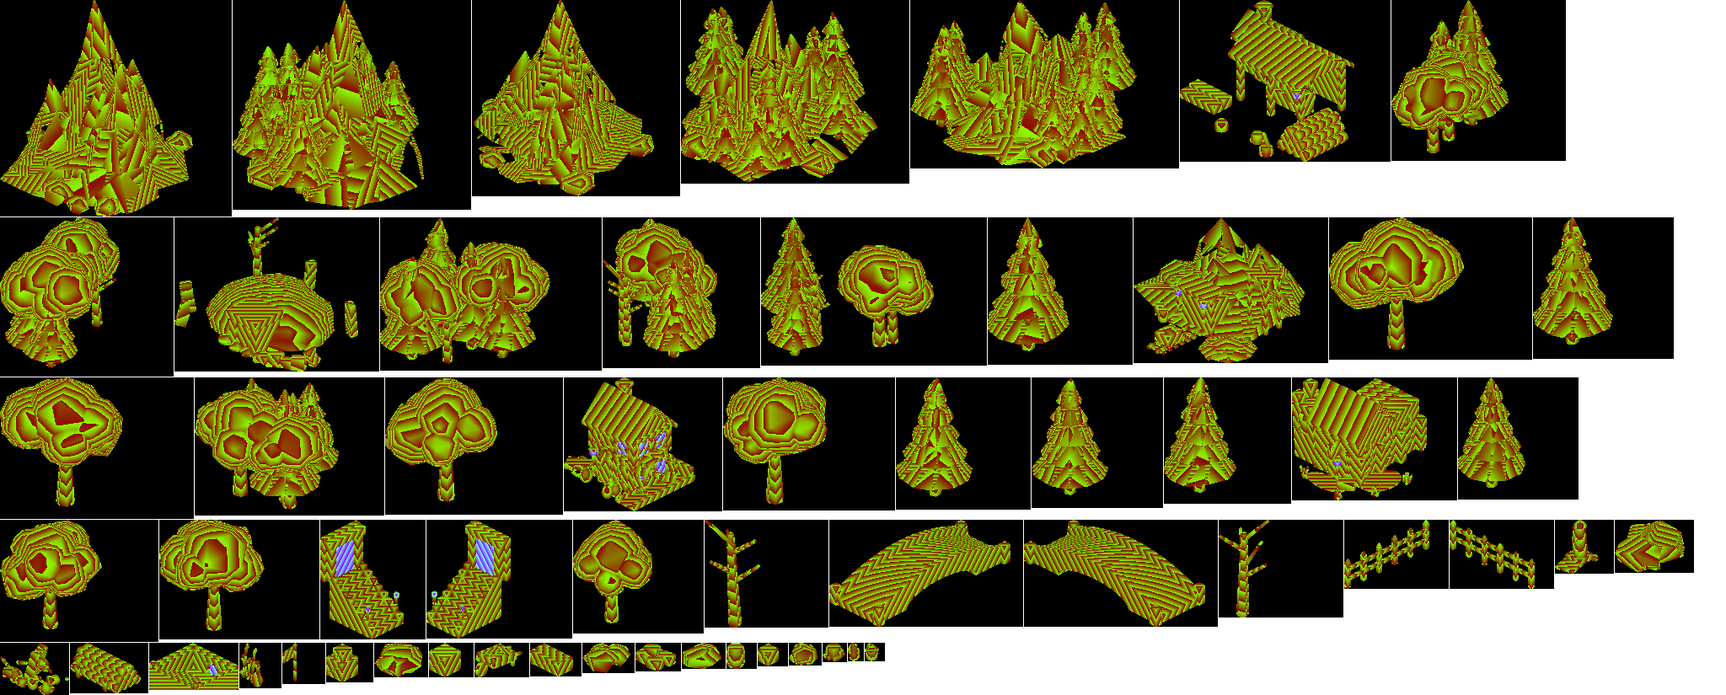
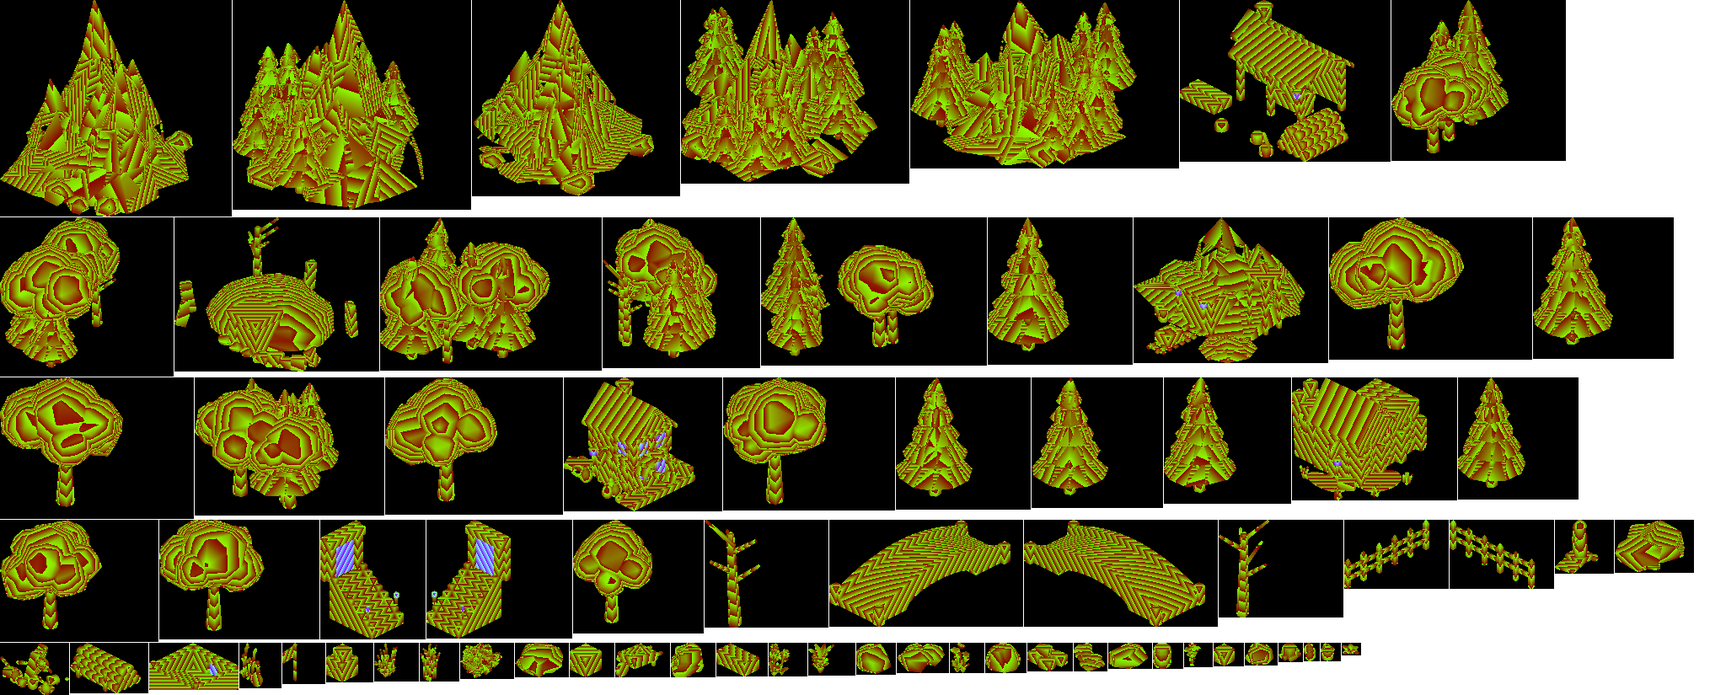
Undergrowth and rocks from the Stylized Nature MegaKit (the proposal's recommendations)
Implements docs/nature-pack-proposal.md as decided: the kit's undergrowth and rocks, our trees kept,
no red maples.

- The bake (tools/actor-lab/env.json):
  - 9 undergrowth sprites (ug_*): a flowering bush, a fern, a plant, two flower groups (a third
    smaller than the prototype's), two grasses (graded lighter), clover and a shelf fungus;
  - the kit's 3 rocks (rock_F/G/H);
  - all loaded from models/nature/ through the lab's cut-out support, and graded to the Vale's trees
    (the kit is about 3× as saturated);
  - bake-env.cjs stops with a clear message if the pack isn't unzipped there.
- The scatter (src/sim/outdoor.js):
  - The kit's rocks replace ours in ROCKS. Ours stay as the barrows' stones.
  - undergrowth() dresses the town (the palisade's verges, the stream's banks, the gardens, flower
    patches, never the square) and the overland (forest edges, meadow patches, clear of every site
    and its way in).
  - It gathers at the front of trees' feet; the shelf fungus grows only there.
  - It's placed last on its own stream, so no tree, rock or house moves. Low plants are walked
    through; the bush and rocks are solid. Trig goes through detmath.
- The minimap leaves the undergrowth off.
- Credits (CC0, Quaternius), the actor-lab README ("The nature pack": where to unzip it) and the
  AGENTS bake line.

Measured:
- 77 undergrowth pieces in the town, 281 on the overland.
[…]

Changed region(s): [[0.2188, 0.9091, 0.8125, 1.0]]

diff --git a/src/sim/envfoot.js b/src/sim/envfoot.js
@@ -1,4 +1,4 @@
 // envfoot.js — GENERATED by tools/actor-lab/bake-env.cjs. Do not edit.
 // Ground footprint of each baked environment sprite, in tiles relative to its
 // origin: [x0, y0, x1, y1]. Used for collision and placement.
-export const ENV_FOOT = {"pine_1":[-4.13,-4.18,4.39,4.34],"pine_2":[-4.81,-4.8,5.12,5],"pine_3":[-4.98,-5.01,5,4.96],"pine_4":[-5.13,-5.38,5.48,5.19],"pine_5":[-4.8,-4.87,4.86,4.58],"pine_6":[-4.76,-4.68,4.81,4.84],"oak_1":[-6.76,-5.9,5.88,5.84],"oak_2":[-5.8,-4.63,4.64,4.88],"oak_3":[-5.69,-5.27,5.8,5.97],"oak_4":[-6.23,-6.82,5.95,6.39],"autumn_1":[-6.59,-6.17,5.5,4.97],"autumn_2":[-4.61,-5.31,5.15,5.55],"autumn_3":[-4.46,-4.55,4.68,4.38],"dead_1":[-2.24,-2.81,2.66,2.62],"dead_2":[-2.56,-1.87,2.98,3.05],"grove_1":[-7.68,-11.37,3.67,5.35],"grove_2":[-9.37,-7.23,8.7,9.95],"grove_3":[-8,-5.74,9.25,8.11],"grove_4":[-8.72,-9.33,7.98,8.18],"grove_5":[-7.14,-9.42,6.44,8.99],"grove_6":[-8.02,-9.64,7.46,6.95],"bridge_0":[-3.6,-9.7,3.6,9.7],"bridge_90":[-9.7,-3.6,9.7,3.6],"rock_A":[-2.18,-2.03,2.19,2.41],"rock_B":[-2.03,-2.12,2.06,1.97],"rock_C":[-3.06,-3.35,3.32,3.55],"rock_D":[-2.7,-3.56,2.22,2.22],"rock_E":[-3.72,-3.84,4.19,6.22],"mountain_A_grass_trees":[-12.58,-12.79,11.34,10.47],"mountain_B_grass_trees":[-12.7,-13.02,12.8,11.86],"mountain_C_grass_trees":[-14.56,-13.66,14.26,14.25],"mountain_A":[-11.3,-11.74,11.05,10.38],"mountain_B":[-12.23,-11.71,11.72,13.45],"ruin":[-9.37,-9.66,9.14,6.89],"mine_0":[-11.55,-10.95,8.49,11.1],"lumbermill_90":[-10.3,-7.1,9.4,8.9],"barrel":[-0.89,-0.94,0.89,0.94],"crate_A_big":[-1.12,-1.12,1.12,1.19],"crate_A_small":[-0.72,-0.72,0.72,0.79],"crate_B_big":[-1.12,-1.12,1.12,1.19],"crate_long_A":[-2.02,-1.02,2.02,1.09],"sack":[-0.62,-0.49,1.25,1.36],"wheelbarrow":[-1.32,-2.69,1.32,3.23],"weaponrack":[-1.2,-0.19,2.1,0.81],"bucket_water":[-0.65,-0.65,0.65,0.65],"resource_lumber":[-3.33,-1.78,3.33,2.15],"resource_stone":[-1.7,-1.97,1.75,0.83],"flag_red":[-0.16,-0.12,0.16,1.84],"stump":[-1.06,-1.15,1.12,1.1],"fence_0":[-0.25,-6.05,0.3,6.05],"fence_90":[-6.05,-0.3,6.05,0.25],"stairsup_0":[-2.6,-4.15,2.6,3.1],"stairsup_90":[-4.15,-2.6,3.1,2.6],"stairsdown_0":[-3.38,-3.8,3.38,3.01],"watermill_0":[-6.12,-4.3,5.3,5.38],"chapelruin_0":[-6.67,-5.7,7.63,8.85],"milestone_0":[-1.68,-1.61,1.66,3.1],"wagon_0":[-4.9,-1.55,4.09,3.62],"vale_tavern_1":[-8.45,-6.72,7.25,6.3],"vale_inn_1":[-7.1,-4.4,10.48,5.1],"vale_shop_1":[-4.2,-4.2,5.72,5.07],"vale_temple_1":[-6.7,-6.95,4.5,7.84],"vale_well_1":[-2.1,-1.8,2.1,1.8],"vale_house_1":[-4.7,-4,4.7,4],"vale_house_2":[-4.7,-4,4.7,4],"vale_house_3":[-4.7,-4,4.7,4],"vale_housex_1":[-4,-4.7,4,4.7],"vale_housex_2":[-4,-4.7,4,4.7],"vale_farm_1":[-9.63,-5.7,9.77,7.63],"vale_farmx_1":[-5.7,-9.77,7.63,9.63],"vale_keep_1":[-6.37,-6.45,6.37,6.45],"vale_wall_1":[-11,-1.7,11,2.1],"vale_smith_1":[-4.3,-5.36,4.8,5.2],"vale_curtain_1":[-10.09,-2,10.15,2],"vale_curtainy_1":[-2,-10.15,2,10.09],"vale_tower_1":[-4.1,-4.1,4.1,4.1],"vale_gatehousey_1":[-3,-7.5,3,7.5],"fens_tavern_1":[-8.45,-6.72,7.25,6.3],"fens_inn_1":[-7.1,-4.4,10.48,5.1],"fens_shop_1":[-4.2,-4.2,5.72,5.07],"fens_temple_1":[-6.7,-6.95,4.5,7.84],"fens_well_1":[-2.1,-1.8,2.1,1.8],"fens_house_1":[-4.7,-4,4.7,4],"fens_house_2":[-4.7,-4,4.7,4],"fens_house_3":[-4.7,-4,4.7,4],"fens_housex_1":[-4,-4.7,4,4.7],"fens_housex_2":[-4,-4.7,4,4.7],"fens_farm_1":[-9.63,-5.7,9.77,7.63],"fens_farmx_1":[-5.7,-9.77,7.63,9.63],"fens_keep_1":[-6.37,-6.45,6.37,6.45],"fens_wall_1":[-11,-1.7,11,2.1],"fens_smith_1":[-4.3,-5.36,4.8,5.2],"fens_curtain_1":[-10,-1.6,10.3,1.6],"fens_curtainy_1":[-1.6,-10.3,1.6,10],"fens_tower_1":[-3.7,-3.8,3.7,3.8],"fens_gatehousey_1":[-3,-7,5.7,7],"reach_tavern_1":[-8.45,-6.72,7.25,6.3],"reach_inn_1":[-7.1,-4.4,10.48,5.1],"reach_shop_1":[-4.2,-4.2,5.72,5.07],"reach_temple_1":[-6.7,-6.95,4.5,7.84],"reach_well_1":[-2.1,-1.8,2.1,1.8],"reach_house_1":[-4.7,-4,4.7,4],"reach_house_2":[-4.7,-4,4.7,4],"reach_house_3":[-4.7,-4,4.7,4],"reach_housex_1":[-4,-4.7,4,4.7],"reach_housex_2":[-4,-4.7,4,4.7],"reach_farm_1":[-9.63,-5.7,9.77,7.63],"reach_farmx_1":[-5.7,-9.77,7.63,9.63],"reach_keep_1":[-6.37,-6.45,6.37,6.45],"reach_wall_1":[-11,-1.7,11,2.1],"reach_smith_1":[-4.3,-5.36,4.8,5.2],"reach_curtain_1":[-10,-1.6,10.3,1.6],"reach_curtainy_1":[-1.6,-10.3,1.6,10],"reach_tower_1":[-3.7,-3.8,3.7,3.8],"reach_gatehousey_1":[-3,-7,5.7,7],"heights_tavern_1":[-8.45,-6.72,7.25,6.3],"heights_inn_1":[-7.1,-4.4,10.48,5.1],"heights_shop_1":[-4.2,-4.2,5.72,5.07],"heights_temple_1":[-6.7,-6.95,4.5,7.84],"heights_well_1":[-2.1,-1.8,2.1,1.8],"heights_house_1":[-4.7,-4,4.7,4],"heights_house_2":[-4.7,-4,4.7,4],"heights_house_3":[-4.7,-4,4.7,4],"heights_housex_1":[-4,-4.7,4,4.7],"heights_housex_2":[-4,-4.7,4,4.7],"heights_farm_1":[-9.63,-5.7,9.77,7.63],"heights_farmx_1":[-5.7,-9.77,7.63,9.63],"heights_keep_1":[-6.37,-6.45,6.37,6.45],"heights_wall_1":[-11,-1.7,11,2.1],"heights_smith_1":[-4.3,-5.36,4.8,5.2],"heights_curtain_1":[-10,-1.6,10.3,1.6],"heights_curtainy_1":[-1.6,-10.3,1.6,10],"heights_tower_1":[-3.7,-3.8,3.7,3.8],"heights_gatehousey_1":[-3,-7,5.7,7]};
+export const ENV_FOOT = {"pine_1":[-4.13,-4.18,4.39,4.34],"pine_2":[-4.81,-4.8,5.12,5],"pine_3":[-4.98,-5.01,5,4.96],"pine_4":[-5.13,-5.38,5.48,5.19],"pine_5":[-4.8,-4.87,4.86,4.58],"pine_6":[-4.76,-4.68,4.81,4.84],"oak_1":[-6.76,-5.9,5.88,5.84],"oak_2":[-5.8,-4.63,4.64,4.88],"oak_3":[-5.69,-5.27,5.8,5.97],"oak_4":[-6.23,-6.82,5.95,6.39],"autumn_1":[-6.59,-6.17,5.5,4.97],"autumn_2":[-4.61,-5.31,5.15,5.55],"autumn_3":[-4.46,-4.55,4.68,4.38],"dead_1":[-2.24,-2.81,2.66,2.62],"dead_2":[-2.56,-1.87,2.98,3.05],"grove_1":[-7.68,-11.37,3.67,5.35],"grove_2":[-9.37,-7.23,8.7,9.95],"grove_3":[-8,-5.74,9.25,8.11],"grove_4":[-8.72,-9.33,7.98,8.18],"grove_5":[-7.14,-9.42,6.44,8.99],"grove_6":[-8.02,-9.64,7.46,6.95],"bridge_0":[-3.6,-9.7,3.6,9.7],"bridge_90":[-9.7,-3.6,9.7,3.6],"rock_A":[-2.18,-2.03,2.19,2.41],"rock_B":[-2.03,-2.12,2.06,1.97],"rock_C":[-3.06,-3.35,3.32,3.55],"rock_D":[-2.7,-3.56,2.22,2.22],"rock_E":[-3.72,-3.84,4.19,6.22],"mountain_A_grass_trees":[-12.58,-12.79,11.34,10.47],"mountain_B_grass_trees":[-12.7,-13.02,12.8,11.86],"mountain_C_grass_trees":[-14.56,-13.66,14.26,14.25],"mountain_A":[-11.3,-11.74,11.05,10.38],"mountain_B":[-12.23,-11.71,11.72,13.45],"ruin":[-9.37,-9.66,9.14,6.89],"mine_0":[-11.55,-10.95,8.49,11.1],"lumbermill_90":[-10.3,-7.1,9.4,8.9],"barrel":[-0.89,-0.94,0.89,0.94],"crate_A_big":[-1.12,-1.12,1.12,1.19],"crate_A_small":[-0.72,-0.72,0.72,0.79],"crate_B_big":[-1.12,-1.12,1.12,1.19],"crate_long_A":[-2.02,-1.02,2.02,1.09],"sack":[-0.62,-0.49,1.25,1.36],"wheelbarrow":[-1.32,-2.69,1.32,3.23],"weaponrack":[-1.2,-0.19,2.1,0.81],"bucket_water":[-0.65,-0.65,0.65,0.65],"resource_lumber":[-3.33,-1.78,3.33,2.15],"resource_stone":[-1.7,-1.97,1.75,0.83],"flag_red":[-0.16,-0.12,0.16,1.84],"stump":[-1.06,-1.15,1.12,1.1],"fence_0":[-0.25,-6.05,0.3,6.05],"fence_90":[-6.05,-0.3,6.05,0.25],"stairsup_0":[-2.6,-4.15,2.6,3.1],"stairsup_90":[-4.15,-2.6,3.1,2.6],"stairsdown_0":[-3.38,-3.8,3.38,3.01],"watermill_0":[-6.12,-4.3,5.3,5.38],"chapelruin_0":[-6.67,-5.7,7.63,8.85],"milestone_0":[-1.68,-1.61,1.66,3.1],"wagon_0":[-4.9,-1.55,4.09,3.62],"ug_bush":[-2.03,-2.14,2.18,2.18],"ug_fern":[-3.54,-3.27,3.7,3.52],"ug_plant":[-1.95,-2.32,2.09,2.06],"ug_flowers_1":[-0.86,-1.12,1.22,1.11],"ug_flowers_2":[-1.3,-0.89,1.19,1.02],"ug_grass_1":[-1.48,-1.64,1.6,1.55],"ug_grass_2":[-0.81,-0.96,0.98,1.03],"ug_clover":[-1,-0.94,0.7,0.73],"ug_mushroom":[-1.62,-0.82,1.79,1.94],"rock_F":[-2.07,-1.38,1.8,2.21],"rock_G":[-2.06,-1.39,1.6,1.58],"rock_H":[-2.19,-1.07,1.91,3.1],"vale_tavern_1":[-8.45,-6.72,7.25,6.3],"vale_inn_1":[-7.1,-4.4,10.48,5.1],"vale_shop_1":[-4.2,-4.2,5.72,5.07],"vale_temple_1":[-6.7,-6.95,4.5,7.84],"vale_well_1":[-2.1,-1.8,2.1,1.8],"vale_house_1":[-4.7,-4,4.7,4],"vale_house_2":[-4.7,-4,4.7,4],"vale_house_3":[-4.7,-4,4.7,4],"vale_housex_1":[-4,-4.7,4,4.7],"vale_housex_2":[-4,-4.7,4,4.7],"vale_farm_1":[-9.63,-5.7,9.77,7.63],"vale_farmx_1":[-5.7,-9.77,7.63,9.63],"vale_keep_1":[-6.37,-6.45,6.37,6.45],"vale_wall_1":[-11,-1.7,11,2.1],"vale_smith_1":[-4.3,-5.36,4.8,5.2],"vale_curtain_1":[-10.09,-2,10.15,2],"vale_curtainy_1":[-2,-10.15,2,10.09],"vale_tower_1":[-4.1,-4.1,4.1,4.1],"vale_gatehousey_1":[-3,-7.5,3,7.5],"fens_tavern_1":[-8.45,-6.72,7.25,6.3],"fens_inn_1":[-7.1,-4.4,10.48,5.1],"fens_shop_1":[-4.2,-4.2,5.72,5.07],"fens_temple_1":[-6.7,-6.95,4.5,7.84],"fens_well_1":[-2.1,-1.8,2.1,1.8],"fens_house_1":[-4.7,-4,4.7,4],"fens_house_2":[-4.7,-4,4.7,4],"fens_house_3":[-4.7,-4,4.7,4],"fens_housex_1":[-4,-4.7,4,4.7],"fens_housex_2":[-4,-4.7,4,4.7],"fens_farm_1":[-9.63,-5.7,9.77,7.63],"fens_farmx_1":[-5.7,-9.77,7.63,9.63],"fens_keep_1":[-6.37,-6.45,6.37,6.45],"fens_wall_1":[-11,-1.7,11,2.1],"fens_smith_1":[-4.3,-5.36,4.8,5.2],"fens_curtain_1":[-10,-1.6,10.3,1.6],"fens_curtainy_1":[-1.6,-10.3,1.6,10],"fens_tower_1":[-3.7,-3.8,3.7,3.8],"fens_gatehousey_1":[-3,-7,5.7,7],"reach_tavern_1":[-8.45,-6.72,7.25,6.3],"reach_inn_1":[-7.1,-4.4,10.48,5.1],"reach_shop_1":[-4.2,-4.2,5.72,5.07],"reach_temple_1":[-6.7,-6.95,4.5,7.84],"reach_well_1":[-2.1,-1.8,2.1,1.8],"reach_house_1":[-4.7,-4,4.7,4],"reach_house_2":[-4.7,-4,4.7,4],"reach_house_3":[-4.7,-4,4.7,4],"reach_housex_1":[-4,-4.7,4,4.7],"reach_housex_2":[-4,-4.7,4,4.7],"reach_farm_1":[-9.63,-5.7,9.77,7.63],"reach_farmx_1":[-5.7,-9.77,7.63,9.63],"reach_keep_1":[-6.37,-6.45,6.37,6.45],"reach_wall_1":[-11,-1.7,11,2.1],"reach_smith_1":[-4.3,-5.36,4.8,5.2],"reach_curtain_1":[-10,-1.6,10.3,1.6],"reach_curtainy_1":[-1.6,-10.3,1.6,10],"reach_tower_1":[-3.7,-3.8,3.7,3.8],"reach_gatehousey_1":[-3,-7,5.7,7],"heights_tavern_1":[-8.45,-6.72,7.25,6.3],"heights_inn_1":[-7.1,-4.4,10.48,5.1],"heights_shop_1":[-4.2,-4.2,5.72,5.07],"heights_temple_1":[-6.7,-6.95,4.5,7.84],"heights_well_1":[-2.1,-1.8,2.1,1.8],"heights_house_1":[-4.7,-4,4.7,4],"heights_house_2":[-4.7,-4,4.7,4],"heights_house_3":[-4.7,-4,4.7,4],"heights_housex_1":[-4,-4.7,4,4.7],"heights_housex_2":[-4,-4.7,4,4.7],"heights_farm_1":[-9.63,-5.7,9.77,7.63],"heights_farmx_1":[-5.7,-9.77,7.63,9.63],"heights_keep_1":[-6.37,-6.45,6.37,6.45],"heights_wall_1":[-11,-1.7,11,2.1],"heights_smith_1":[-4.3,-5.36,4.8,5.2],"heights_curtain_1":[-10,-1.6,10.3,1.6],"heights_curtainy_1":[-1.6,-10.3,1.6,10],"heights_tower_1":[-3.7,-3.8,3.7,3.8],"heights_gatehousey_1":[-3,-7,5.7,7]};

diff --git a/src/sim/outdoor.js b/src/sim/outdoor.js
@@ -12,7 +12,7 @@
 import { mulberry32, streamSeed, fbm, hash2 } from './rng.js';
 import { FLOOR_Z } from './level.js';
 import { ENV_FOOT } from './envfoot.js';
-import { hypot } from './detmath.js';
+import { hypot, sin, cos } from './detmath.js';
 
 // ground codes (pixel + tile)
 export const G = { GRASS: 0, DIRT: 1, COBBLE: 2, WATER: 3, BANK: 4, FIELD: 5 };
@@ -167,7 +167,12 @@ function putProp(o, kind, x, y) { o.props.set(Math.floor(x) + ',' + Math.floor(y
 
 const TREE_SINGLE = ['pine_1', 'pine_2', 'pine_3', 'pine_4', 'pine_5', 'pine_6', 'oak_1', 'oak_2', 'oak_3', 'oak_4', 'autumn_1', 'autumn_2', 'autumn_3', 'dead_1', 'dead_2'];
 const TREE_CLUSTER = ['grove_1', 'grove_2', 'grove_3', 'grove_4', 'grove_5', 'grove_6'];
-const ROCKS = ['rock_A', 'rock_B', 'rock_C', 'rock_D', 'rock_E'];
+const ROCKS = ['rock_F', 'rock_G', 'rock_H'];        // the nature pack's (docs/nature-pack-proposal.md); rock_A..E stay at the barrows
+// The undergrowth (Quaternius' Stylized Nature MegaKit, CC0): LOW is walked through (flowers, grass, ferns, clover,
+// a plant), SOLID isn't (a flowering bush, the rocks); FOOT grows at a tree's foot (and the shelf fungus only there).
+const LOW = ['ug_flowers_1', 'ug_flowers_2', 'ug_grass_1', 'ug_grass_2', 'ug_grass_1', 'ug_fern', 'ug_clover', 'ug_plant'];
+const FOOT = [...LOW, 'ug_mushroom', 'ug_mushroom'];
+const SOLID = ['ug_bush', 'ug_bush', 'rock_F', 'rock_G', 'rock_H'];
 const pick = (rng, a) => a[(rng() * a.length) | 0];
 
 // scatter trees / rocks in a region with a density mask; never on roads, water or buildings,
@@ -180,6 +185,27 @@ function scatter(o, rng, x0, y0, x1, y1, step, fn) {
     if (fits(o, id, jx, jy, mount ? -1 : round ? 0.6 : 0.5)) put(o, id, jx, jy, round ? 'round' : 'rect', round ? 0.35 : 0.1);
   }
 }
+// Dress the grass with undergrowth: density(x, y) → 0..1, where it may grow; then a few low plants at the front of
+// some trees' feet (the side the camera sees). Placed LAST, on its own stream: nothing it adds can move a tree,
+// rock or house (test/town.test.mjs checks the order).
+function undergrowth(o, x0, y0, x1, y1, step, density) {
+  const rng = mulberry32(streamSeed(o.seed, 4409));
+  for (let y = y0; y < y1; y += step) for (let x = x0; x < x1; x += step) {
+    const jx = x + (rng() - 0.5) * step * 0.9, jy = y + (rng() - 0.5) * step * 0.9, d = density(jx, jy), r = rng();
+    if (!(d > 0) || r > d) continue;
+    const solid = rng() < 0.3, id = pick(rng, solid ? SOLID : LOW);
+    if (fits(o, id, jx, jy, solid ? 0.4 : 0.1)) put(o, id, jx, jy, solid ? 'round' : 'none', 0.35);
+  }
+  for (const t of o.structs.slice()) {
+    if (!/pine|oak|autumn|grove/.test(t.id) || rng() < 0.35) continue;
+    const f = ENV_FOOT[t.id], rad = f ? Math.max(f[2] - f[0], f[3] - f[1]) / 2 : 4;
+    for (let k = 0, n = 1 + Math.floor(rng() * 3); k < n; k++) {
+      const a = (rng() - 0.5) * 2.2 + Math.PI / 4, dist = rad * (0.7 + rng() * 0.5), x = t.x + cos(a) * dist, y = t.y + sin(a) * dist, id = pick(rng, FOOT);
+      if (density(x, y) >= 0 && fits(o, id, x, y, 0.1)) put(o, id, x, y, 'none', 0.35);
+    }
+  }
+}
+
 // Keep the view of a landmark clear: the camera looks from +x+y, so anything tall in the wedge
 // in front of (and a little around) a site hides it. True if (x, y) is in that wedge.
 function inFrontOf(sites, x, y, depth = 30, half = 18) {
@@ -273,6 +299,14 @@ function buildTown(seed, region) {
     return n > 0.55 && rng() < 0.4 ? pick(rng, TREE_SINGLE) : rng() < 0.05 ? pick(rng, ROCKS) : null;
   });
   forestRing(o, rng, 10);
+  // the undergrowth: the walls' verges (in and out), the stream's banks, the gardens, flower patches; never the square
+  undergrowth(o, -10, -10, 150, 130, 3, (x, y) => {
+    if (hypot(x - o.hub.x, y - o.hub.y) < o.hub.r + 4) return -1;
+    const wall = Math.min(Math.abs(x - WX0), Math.abs(x - WX1), Math.abs(y - WY0), Math.abs(y - WY1));
+    const inBox = x > WX0 - 9 && x < WX1 + 9 && y > WY0 - 9 && y < WY1 + 9;
+    return Math.max(inBox && wall < 5 ? 0.5 : 0, Math.abs(x - 125) < 9 ? 0.5 : 0, x > 84 && y > 84 && x < WX1 && y < WY1 ? 0.5 : 0,
+      fbm(x * 0.09, y * 0.09, o.seed + 9) > 0.66 ? 0.45 : 0);
+  });
   o.exits.push({ x0: 146, y0: 66, x1: 160, y1: 94, to: 'overland', arrive: 'thornwick' });
   o.arrivals = { default: { x: M[0] + 0.5, y: M[1] + 6.5 }, overland: { x: 141.5, y: GY + 0.5 }, temple: { x: 38.5, y: 42.5 } };
   o.spawn = o.arrivals.default;
@@ -353,6 +387,12 @@ function buildOverland(seed) {
     return inFrontOf(sights, x, y, reach, 32) ? null : id;
   });
   forestRing(o, rng, 6);
+  // the undergrowth: thick at the forests' edges, in patches in the meadows; clear of every site and its way in
+  undergrowth(o, -40, -40, 300, 300, 4, (x, y) => {
+    for (const c of [keep, barrows, mine, camp, cross, [town[0] + 4, town[1]], mill, chapel, stone]) if (hypot(x - c[0], y - c[1]) < 14) return -1;
+    const f = fbm(x * 0.022, y * 0.022, o.seed + 7);
+    return f > 0.5 && f < 0.6 ? 0.4 : fbm(x * 0.08, y * 0.08, o.seed + 13) > 0.68 ? 0.45 : 0;
+  });
 
   o.exits.push({ x0: town[0] - 6, y0: town[1] - 4, x1: town[0] + 1, y1: town[1] + 4, to: 'town', arrive: 'overland' });
   // walk into the barrow's doorway (around the glowing stairs) to go down into the dungeon

diff --git a/src/render/renderer.js b/src/render/renderer.js
@@ -1110,6 +1110,7 @@ export function createRenderer(canvas, sim, input) {
       x.putImageData(img, 0, 0);
       for (const st of w.structs) {
         const f = envMeta && envMeta.sprites[st.id]; if (!f) continue;
+        if (st.id.startsWith('ug_')) continue;                   // (the undergrowth isn't mapped: a tuft isn't a landmark)
         const tree = /pine|oak|autumn|dead|grove|mountain|rock/.test(st.id), sx = (st.x - x0) * N / span, sy = (st.y - y0) * N / span;
         x.fillStyle = /mountain/.test(st.id) ? 'rgba(120,118,128,0.9)' : tree ? 'rgba(24,44,28,0.9)' : 'rgba(170,86,70,0.95)';
         const r = tree ? (/grove|mountain/.test(st.id) ? 3 : 1.3) : 2.2; x.fillRect(sx - r, sy - r, r * 2, r * 2);

diff --git a/docs/README.md b/docs/README.md
@@ -10,7 +10,7 @@ the header of each status doc for what it replaces.
 | [development-plan.md](./development-plan.md) | Feature plan (intro and cutscenes, accounts, hero creation and select, character windows and stat points, NPCs, quests and lore, loot, Ember Rifts, region bosses, death and resurrection, multiplayer) and milestones M2.5–M12 | **Plan of record** for build order (v0.5, 2026-09-28) |
 | [quest-lore-system.md](./quest-lore-system.md) | The Hero component: quest kinds, content data model, objective types, deterministic generator, Ink dialogue conventions, discovery, the Chronicle, the Journal | **Spec** for M4–M5 (2026-09-28); §5 quests, §6 dialogue and §8 the Journal **partly implemented** (M4 slices 1–2) |
 | [../AGENTS.md](../AGENTS.md) | Working agreement and best practices for agents and contributors | **Current** |
-| [nature-pack-proposal.md](./nature-pack-proposal.md) | Quaternius' Stylized Nature MegaKit (CC0) as landscaping: the env lab's new cut-out (alpha-mask) bake support, every model at in-game scale beside ours, colour measured and graded, two in-game variants (undergrowth only, a full tree swap) captured against now; recommends the undergrowth and rocks and keeping our trees | **Proposal** (2026-10-03): awaiting decisions |
+| [nature-pack-proposal.md](./nature-pack-proposal.md) | Quaternius' Stylized Nature MegaKit (CC0) as landscaping: the env lab's new cut-out (alpha-mask) bake support, every model at in-game scale beside ours, colour measured and graded, two in-game variants (undergrowth only, a full tree swap) captured against now; recommends the undergrowth and rocks and keeping our trees | **Implemented** (2026-10-03): undergrowth and rocks; `tools/actor-lab/env.json` + `envlab.js`, `src/sim/outdoor.js` (`undergrowth`, `ROCKS`), `test/town.test.mjs` |
 | [town-layout-proposal.md](./town-layout-proposal.md) | The town reviewed as an art critic would (the square, the way in, the edge) and replanned for the portrait frame: for Thornwick a timber palisade with watchtowers (stone kept for a later town), the bridge straight into an east gate, the camera leading to the gate on the approach, a cobbled high street, five services round the well with every entrance facing it, more room between them; Thornwick walled on the overland to match. Measured on a blockout with stand-in wall pieces | **Implemented** (2026-10-03): `src/sim/outdoor.js` (`buildTown`, the overland's Thornwick), `tools/actor-lab/buildkit.js` + `town.json`, `src/render/renderer.js` (camera lead, plaques), `src/sim/npcs.js`; `test/town.test.mjs` |
 | [town-art-options.md](./town-art-options.md) | Town + overland prototype with our own buildings; hub towns (one per region, same shapes, regional tones), live via `?scene=town&region=vale` | **Decided** — Option A shapes, regional tones (2026-09-28) |
 | [emberfall-gdd.md](./emberfall-gdd.md) | **Emberfall** game design: autobattler party RPG, classes, stats and attributes, skills, creation and origins, death and resurrection, loot, quests and the Journal, overland and the time of day, the forge and the shop, offline and multiplayer | **Plan of record** for game design (v1.14, 2026-10-02) |

diff --git a/docs/nature-pack-proposal.md b/docs/nature-pack-proposal.md
@@ -1,6 +1,7 @@
 # The Stylized Nature MegaKit as landscaping (proposal)
 
-**Proposal, 2026-10-03.** Should we use Quaternius' *Stylized Nature MegaKit* (CC0) to improve the town's and
+**Implemented, 2026-10-03 (the recommendations: undergrowth and rocks, our trees kept).** See *Shipped* at the end.
+Proposed the same day. Should we use Quaternius' *Stylized Nature MegaKit* (CC0) to improve the town's and
 the Vale's landscaping? Everything below was baked through our own environment lab and captured in the real
 renderer, in a scratch checkout. Nothing in the game has changed yet.
 
@@ -136,3 +137,47 @@ Two things about the delivered colours:
    - (b) its pines and dead trees as extra variety;
    - (c) the full swap.
 3. **The red maples:** leave them out (*recommended*), or a rare autumn accent?
+
+## Decided
+
+The recommendations, 2026-10-03:
+- **Undergrowth and rocks:** yes.
+- **Trees:** none of the kit's.
+- **Red maples:** left out.
+
+## Shipped
+
+**What shipped:**
+- **The bake:**
+  - 9 undergrowth sprites (`ug_*`): the flowering bush, a fern, a plant, two flower groups (a third smaller
+    than the prototype's), two grasses (graded lighter: gain 0.72), clover and the shelf fungus;
+  - the kit's 3 rocks (`rock_F`, `rock_G`, `rock_H`);
+  - entries in `tools/actor-lab/env.json` (`gltf: 'nature/…'`, scale and grade).
+  - `bake-env.cjs` stops with a clear message if `models/nature/` is missing.
+- **The scatter** (`src/sim/outdoor.js`):
+  - The rocks replace ours (`ROCKS`). Our `rock_A`..`E` stay as the barrows' stones.
+  - `undergrowth()` dresses the town (the palisade's verges, the stream's banks, the gardens, flower patches,
+    never the square) and the overland (forest edges, meadow patches, clear of every site and its way in).
+  - It gathers at the front of trees' feet; the shelf fungus grows only there.
+  - It's placed **last**, on its own stream, so nothing else moves. Flowers, grass, ferns, clover and the plant
+    are walked through; the bush and the rocks are solid.
+- **The minimap** leaves the undergrowth off.
+- **Credits:** `assets/CREDITS.md`. **Getting the pack:** the actor-lab README, *The nature pack*.
+
+![Before and after: arriving at Thornwick, the gate, a meadow, a forest's edge, Thornwick from the Vale](img/nature/shipped.jpg)
+
+**Measured:**
+
+| | Before | Shipped |
+|---|---|---|
+| Undergrowth in the town / the overland | 0 / 0 | 77 / 281 pieces |
+| The kit's rocks in the town / the overland | 0 / 0 | 9 / 75 (ours before) |
+| Environment atlas | 2048 × 825, 2.03 MB | 2048 × 825 (the 12 sprites fit the shelves' spare room), 2.10 MB (+3.4 %) |
+| Named townsfolk hidden at any part of the day (test 15d) | 0 % | 0 % |
+
+**Tests:** `test/town.test.mjs`:
+- undergrowth grows in the town (two regions) and the overland;
+- it's placed after everything else;
+- nothing of it stands in the square or within 6 tiles of a site's way in.
+
+`npm run check`: 255 pass, SMOKE_OK, RENDER_SMOKE_OK. `npm run test:browser`: BROWSER_OK.

diff --git a/assets/CREDITS.md b/assets/CREDITS.md
@@ -29,11 +29,17 @@ The earlier POC atlases (a Flare CC BY-SA 3.0 skeleton and the `isometric_hero`
 knight) have been removed.
 
 ## Environment — `assets/env/`
-Every environment model is **our own**: buildings, trees, the bridge, rocks, mountains, the
-overland sites and all small props are low-poly models authored in code
-(`tools/actor-lab/buildkit.js`) and baked by `tools/actor-lab/bake-env.cjs`. No third-party
+Every environment model but the undergrowth and the scatter's rocks (below) is **our own**:
+buildings, trees, the bridge, the barrows' stones, mountains, the overland sites and all small
+props are low-poly models authored in code
+(`tools/actor-lab/buildkit.js`) and baked by `tools/actor-lab/bake-env.cjs`. No other third-party
 environment assets remain. (Earlier prototypes used the CC0 KayKit Medieval Hexagon Pack;
 it has been fully replaced.)
+
+**The exception: the undergrowth and the rocks.** The undergrowth (`ug_*`: a flowering bush, a fern, a
+plant, flowers, grasses, clover, a shelf fungus) and the scatter's rocks (`rock_F`, `rock_G`, `rock_H`) are
+baked from **Stylized Nature MegaKit** by Quaternius (https://quaternius.com) — **CC0 1.0**. They're scaled
+and colour-graded in the bake (`tools/actor-lab/env.json`).
 
 ## Fonts — `assets/fonts/`
 **IM Fell English** (roman and italic) and **IM Fell English SC** by Igino Marini

diff --git a/tools/actor-lab/README.md b/tools/actor-lab/README.md
@@ -39,6 +39,17 @@ Per-sprite knobs in `env.json` beyond the grade:
   the opening (meshes with `userData.mask`), so the bake sees into it only through its mouth,
   and the renderer draws it over the floor (`hole` structures, `renderer.js`).
 - `shadow: false` — no planar ground shadow.
+- `gltf` — load a glTF from any path under `models/` (`'nature/Fern_1'`), with `scale` to bring it to our size.
+  Cut-out materials (glTF `alphaMode: MASK`: leaf cards, petals, grass blades) bake as cut-outs in every
+  pass: albedo, normals, depth key, shadow, glow.
+
+### The nature pack
+
+The undergrowth (`ug_*`) and the scatter's rocks (`rock_F`, `rock_G`, `rock_H`) are Quaternius' **Stylized
+Nature MegaKit** (CC0), graded in the bake to the Vale's trees (`docs/nature-pack-proposal.md`).
+- **Getting it:** download its glTF folder (from quaternius.com or itch.io) and unzip it into
+  `models/nature/`. Like `models/`, it isn't committed.
+- **Without it:** `bake-env.cjs` stops and says so.
 
 ## Game atlases (`bake.cjs` + `bake.json`)
 

diff --git a/AGENTS.md b/AGENTS.md
@@ -42,7 +42,7 @@ node tools/actor-lab/bake.cjs [actor…]    # actor atlases (+ weapon anchors, +
 BAKE_OUT=dir BAKE_PROTO=features|eyes1|eyes2,grade[,stats]|off BAKE_HEAD=0.74 BAKE_PX=72 node tools/actor-lab/bake.cjs [actor…]   # face knobs and prototype bakes into a scratch tree (docs/face-fidelity-proposal.md, art-critic-pass-7.md); the shipped faces are eyes2,grade
 node tools/actor-lab/faces.cjs            # the face board: every faces.json preset and every face part → tools/actor-lab/out/faces_board.png
 node tools/actor-lab/icons.cjs [ids]      # item icons
-node tools/actor-lab/bake-env.cjs         # buildings / trees / rocks
+node tools/actor-lab/bake-env.cjs         # buildings / trees / rocks (the undergrowth needs the nature pack's glTF in tools/actor-lab/models/nature/: actor-lab README)
 ```
 
 CI (`.github/workflows/ci.yml`) runs all of the above on every push. Add a new command here
